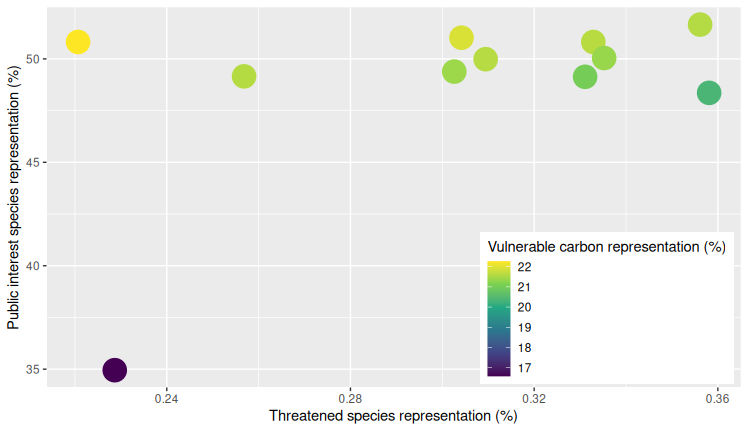
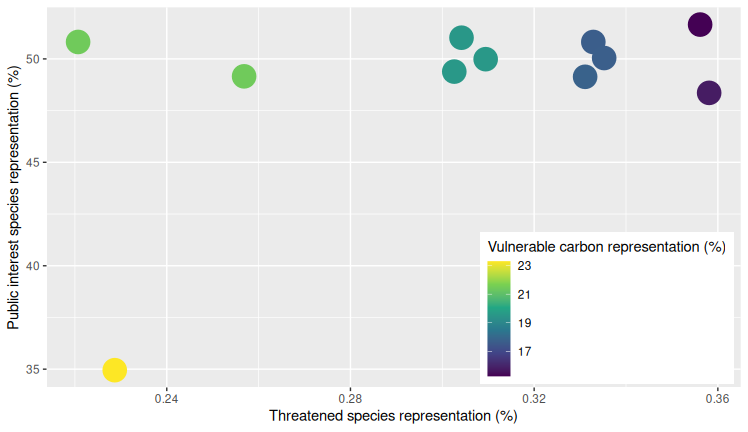
fix metrics in readme

diff --git a/docs/index.html b/docs/index.html
@@ -323,7 +323,7 @@
 <span>  FUN.VALUE <span class="op">=</span> <span class="fu"><a href="https://rdrr.io/r/base/numeric.html" class="external-link">numeric</a></span><span class="op">(</span><span class="fl">1</span><span class="op">)</span>,</span>
 <span>  <span class="kw">function</span><span class="op">(</span><span class="va">x</span><span class="op">)</span> <span class="op">{</span></span>
 <span>    <span class="fu"><a href="https://rspatial.github.io/terra/reference/summarize-generics.html" class="external-link">mean</a></span><span class="op">(</span></span>
-<span>      <span class="fu"><a href="https://prioritizr.net/reference/eval_target_coverage_summary.html" class="external-link">eval_target_coverage_summary</a></span><span class="op">(</span><span class="va">p1</span>, <span class="va">x</span><span class="op">)</span><span class="op">$</span><span class="va">relative_met</span> <span class="op">*</span></span>
+<span>      <span class="fu"><a href="https://prioritizr.net/reference/eval_target_coverage_summary.html" class="external-link">eval_target_coverage_summary</a></span><span class="op">(</span><span class="va">p2</span>, <span class="va">x</span><span class="op">)</span><span class="op">$</span><span class="va">relative_met</span> <span class="op">*</span></span>
 <span>      <span class="fl">100</span> <span class="op">*</span></span>
 <span>      <span class="va">wa_attr</span><span class="op">$</span><span class="va">interest_score</span></span>
 <span>    <span class="op">)</span></span>
@@ -338,7 +338,7 @@
 <span>  FUN.VALUE <span class="op">=</span> <span class="fu"><a href="https://rdrr.io/r/base/numeric.html" class="external-link">numeric</a></span><span class="op">(</span><span class="fl">1</span><span class="op">)</span>,</span>
 <span>  <span class="kw">function</span><span class="op">(</span><span class="va">x</span><span class="op">)</span> <span class="op">{</span></span>
 <span>    <span class="fu"><a href="https://rspatial.github.io/terra/reference/summarize-generics.html" class="external-link">mean</a></span><span class="op">(</span></span>
-<span>      <span class="fu"><a href="https://prioritizr.net/reference/eval_feature_representation_summary.html" class="external-link">eval_feature_representation_summary</a></span><span class="op">(</span><span class="va">p1</span>, <span class="va">x</span><span class="op">)</span><span class="op">$</span><span class="va">relative_held</span> <span class="op">*</span> <span class="fl">100</span></span>
+<span>      <span class="fu"><a href="https://prioritizr.net/reference/eval_feature_representation_summary.html" class="external-link">eval_feature_representation_summary</a></span><span class="op">(</span><span class="va">p3</span>, <span class="va">x</span><span class="op">)</span><span class="op">$</span><span class="va">relative_held</span> <span class="op">*</span> <span class="fl">100</span></span>
 <span>    <span class="op">)</span></span>
 <span>  <span class="op">}</span></span>
 <span><span class="op">)</span></span>
@@ -346,17 +346,17 @@
 <span><span class="co"># print the metrics</span></span>
 <span><span class="fu"><a href="https://rdrr.io/r/base/print.html" class="external-link">print</a></span><span class="op">(</span><span class="va">metric_data</span><span class="op">)</span></span></code></pre></div>
 <div class="sourceCode" id="cb26"><pre class="sourceCode R"><code class="sourceCode r"><span id="cb26-1"><a href="#cb26-1" tabindex="-1"></a><span class="do">##           name threatened_species public_interest_species vulnerable_carbon</span></span>
-<span id="cb26-2"><a href="#cb26-2" tabindex="-1"></a><span class="do">## 1   solution_1          0.3581032                48.35750          20.36066</span></span>
-<span id="cb26-3"><a href="#cb26-3" tabindex="-1"></a><span class="do">## 2   solution_2          0.3561382                51.65796          21.58850</span></span>
-<span id="cb26-4"><a href="#cb26-4" tabindex="-1"></a><span class="do">## 3   solution_3          0.2286733                34.95139          16.57897</span></span>
-<span id="cb26-5"><a href="#cb26-5" tabindex="-1"></a><span class="do">## 4   solution_4          0.2206898                50.81793          22.26340</span></span>
-<span id="cb26-6"><a href="#cb26-6" tabindex="-1"></a><span class="do">## 5   solution_5          0.3041822                51.02351          21.93377</span></span>
-<span id="cb26-7"><a href="#cb26-7" tabindex="-1"></a><span class="do">## 6   solution_6          0.3328820                50.81700          21.61937</span></span>
-<span id="cb26-8"><a href="#cb26-8" tabindex="-1"></a><span class="do">## 7   solution_7          0.3094408                49.98532          21.61446</span></span>
-<span id="cb26-9"><a href="#cb26-9" tabindex="-1"></a><span class="do">## 8   solution_8          0.3352435                50.04114          21.35061</span></span>
-<span id="cb26-10"><a href="#cb26-10" tabindex="-1"></a><span class="do">## 9   solution_9          0.2568405                49.15617          21.59646</span></span>
-<span id="cb26-11"><a href="#cb26-11" tabindex="-1"></a><span class="do">## 10 solution_10          0.3026054                49.38533          21.38988</span></span>
-<span id="cb26-12"><a href="#cb26-12" tabindex="-1"></a><span class="do">## 11 solution_11          0.3310988                49.13349          21.02494</span></span></code></pre></div>
+<span id="cb26-2"><a href="#cb26-2" tabindex="-1"></a><span class="do">## 1   solution_1          0.3581032                48.35750          15.76133</span></span>
+<span id="cb26-3"><a href="#cb26-3" tabindex="-1"></a><span class="do">## 2   solution_2          0.3561382                51.65796          15.26430</span></span>
+<span id="cb26-4"><a href="#cb26-4" tabindex="-1"></a><span class="do">## 3   solution_3          0.2286733                34.95139          23.29413</span></span>
+<span id="cb26-5"><a href="#cb26-5" tabindex="-1"></a><span class="do">## 4   solution_4          0.2206898                50.81793          21.42134</span></span>
+<span id="cb26-6"><a href="#cb26-6" tabindex="-1"></a><span class="do">## 5   solution_5          0.3041822                51.02351          19.53688</span></span>
+<span id="cb26-7"><a href="#cb26-7" tabindex="-1"></a><span class="do">## 6   solution_6          0.3328820                50.81700          17.66222</span></span>
+<span id="cb26-8"><a href="#cb26-8" tabindex="-1"></a><span class="do">## 7   solution_7          0.3094408                49.98532          19.53835</span></span>
+<span id="cb26-9"><a href="#cb26-9" tabindex="-1"></a><span class="do">## 8   solution_8          0.3352435                50.04114          17.69861</span></span>
+<span id="cb26-10"><a href="#cb26-10" tabindex="-1"></a><span class="do">## 9   solution_9          0.2568405                49.15617          21.42735</span></span>
+<span id="cb26-11"><a href="#cb26-11" tabindex="-1"></a><span class="do">## 10 solution_10          0.3026054                49.38533          19.55482</span></span>
+<span id="cb26-12"><a href="#cb26-12" tabindex="-1"></a><span class="do">## 11 solution_11          0.3310988                49.13349          17.78224</span></span></code></pre></div>
 <div class="sourceCode" id="cb27"><pre class="downlit sourceCode r">
 <code class="sourceCode R"><span><span class="co"># create plot to visualize trade-offs based on metrics</span></span>
 <span><span class="va">p</span> <span class="op">&lt;-</span></span>

diff --git a/README.md b/README.md
@@ -428,7 +428,7 @@ metric_data$public_interest_species <- vapply(
   FUN.VALUE = numeric(1),
   function(x) {
     mean(
-      eval_target_coverage_summary(p1, x)$relative_met *
+      eval_target_coverage_summary(p2, x)$relative_met *
       100 *
       wa_attr$interest_score
     )
@@ -443,7 +443,7 @@ metric_data$vulnerable_carbon <- vapply(
   FUN.VALUE = numeric(1),
   function(x) {
     mean(
-      eval_feature_representation_summary(p1, x)$relative_held * 100
+      eval_feature_representation_summary(p3, x)$relative_held * 100
     )
   }
 )
@@ -453,17 +453,17 @@ print(metric_data)
 ```
 
     ##           name threatened_species public_interest_species vulnerable_carbon
-    ## 1   solution_1          0.3581032                48.35750          20.36066
-    ## 2   solution_2          0.3561382                51.65796          21.58850
-    ## 3   solution_3          0.2286733                34.95139          16.57897
-    ## 4   solution_4          0.2206898                50.81793          22.26340
-    ## 5   solution_5          0.3041822                51.02351          21.93377
-    ## 6   solution_6          0.3328820                50.81700          21.61937
-    ## 7   solution_7          0.3094408                49.98532          21.61446
-    ## 8   solution_8          0.3352435                50.04114          21.35061
-    ## 9   solution_9          0.2568405                49.15617          21.59646
-    ## 10 solution_10          0.3026054                49.38533          21.38988
-    ## 11 solution_11          0.3310988                49.13349          21.02494
+    ## 1   solution_1          0.3581032                48.35750          15.76133
+    ## 2   solution_2          0.3561382                51.65796          15.26430
+    ## 3   solution_3          0.2286733                34.95139          23.29413
+    ## 4   solution_4          0.2206898                50.81793          21.42134
+    ## 5   solution_5          0.3041822                51.02351          19.53688
+    ## 6   solution_6          0.3328820                50.81700          17.66222
+    ## 7   solution_7          0.3094408                49.98532          19.53835
+    ## 8   solution_8          0.3352435                50.04114          17.69861
+    ## 9   solution_9          0.2568405                49.15617          21.42735
+    ## 10 solution_10          0.3026054                49.38533          19.55482
+    ## 11 solution_11          0.3310988                49.13349          17.78224
 
 ``` r
 # create plot to visualize trade-offs based on metrics

diff --git a/docs/index.md b/docs/index.md
@@ -450,7 +450,7 @@ metric_data$public_interest_species <- vapply(
   FUN.VALUE = numeric(1),
   function(x) {
     mean(
-      eval_target_coverage_summary(p1, x)$relative_met *
+      eval_target_coverage_summary(p2, x)$relative_met *
       100 *
       wa_attr$interest_score
     )
@@ -465,7 +465,7 @@ metric_data$vulnerable_carbon <- vapply(
   FUN.VALUE = numeric(1),
   function(x) {
     mean(
-      eval_feature_representation_summary(p1, x)$relative_held * 100
+      eval_feature_representation_summary(p3, x)$relative_held * 100
     )
   }
 )
@@ -476,17 +476,17 @@ print(metric_data)
 
 ``` R
 ##           name threatened_species public_interest_species vulnerable_carbon
-## 1   solution_1          0.3581032                48.35750          20.36066
-## 2   solution_2          0.3561382                51.65796          21.58850
-## 3   solution_3          0.2286733                34.95139          16.57897
-## 4   solution_4          0.2206898                50.81793          22.26340
-## 5   solution_5          0.3041822                51.02351          21.93377
-## 6   solution_6          0.3328820                50.81700          21.61937
-## 7   solution_7          0.3094408                49.98532          21.61446
-## 8   solution_8          0.3352435                50.04114          21.35061
-## 9   solution_9          0.2568405                49.15617          21.59646
-## 10 solution_10          0.3026054                49.38533          21.38988
-## 11 solution_11          0.3310988                49.13349          21.02494
+## 1   solution_1          0.3581032                48.35750          15.76133
+## 2   solution_2          0.3561382                51.65796          15.26430
+## 3   solution_3          0.2286733                34.95139          23.29413
+## 4   solution_4          0.2206898                50.81793          21.42134
+## 5   solution_5          0.3041822                51.02351          19.53688
+## 6   solution_6          0.3328820                50.81700          17.66222
+## 7   solution_7          0.3094408                49.98532          19.53835
+## 8   solution_8          0.3352435                50.04114          17.69861
+## 9   solution_9          0.2568405                49.15617          21.42735
+## 10 solution_10          0.3026054                49.38533          19.55482
+## 11 solution_11          0.3310988                49.13349          17.78224
 ```
 
 ``` r